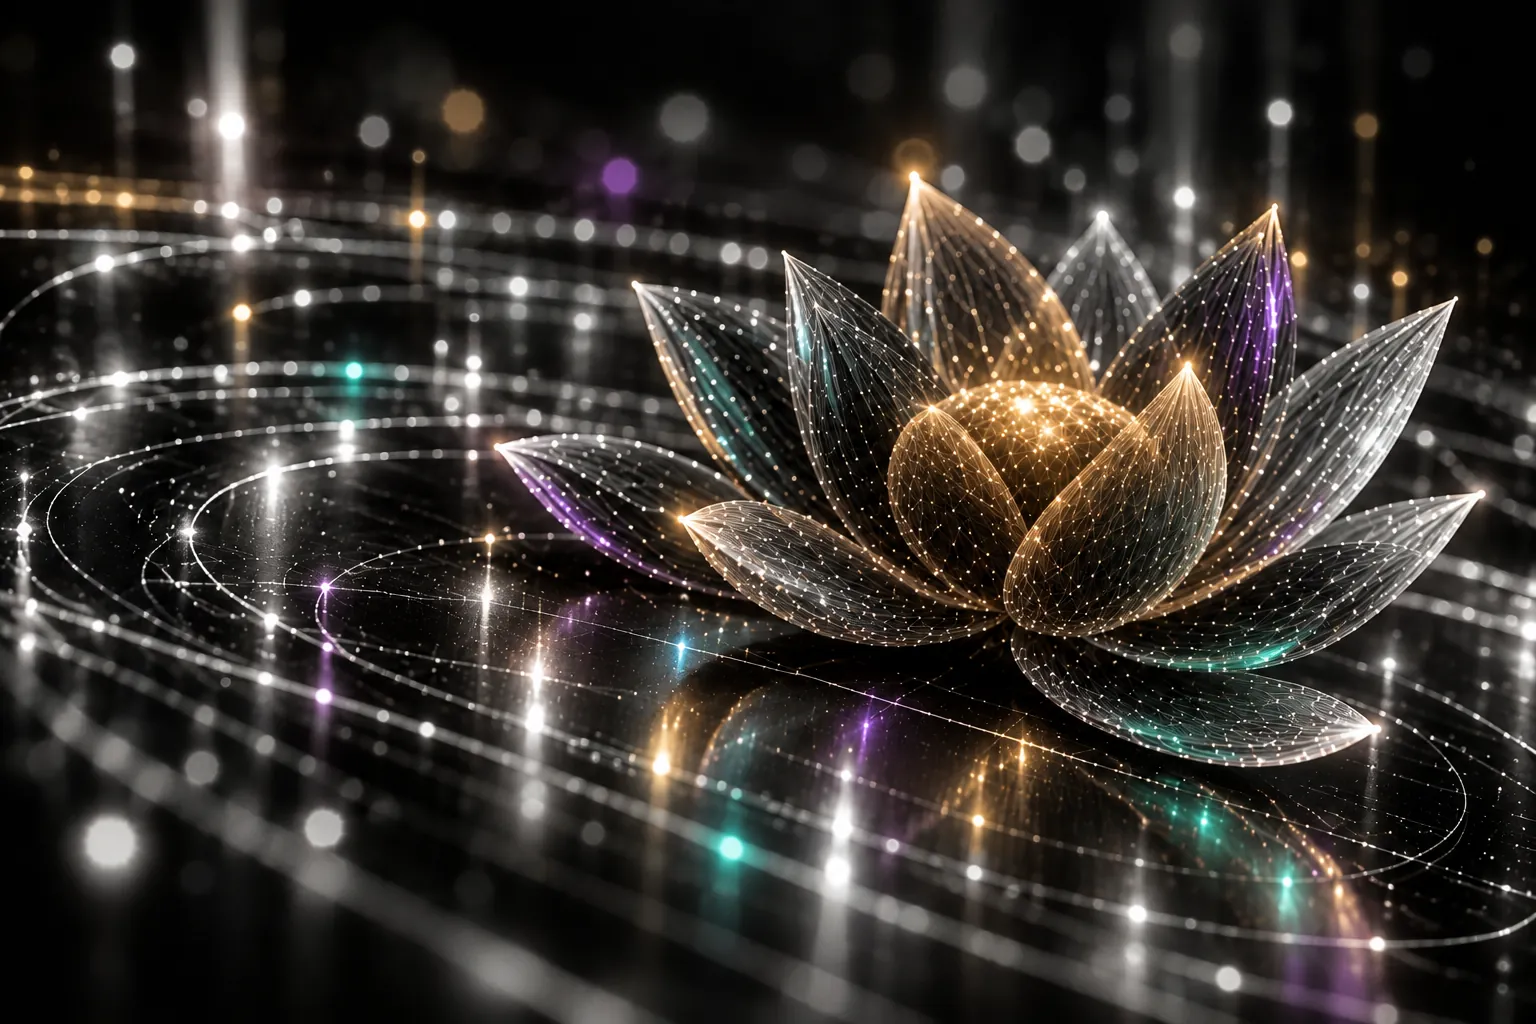
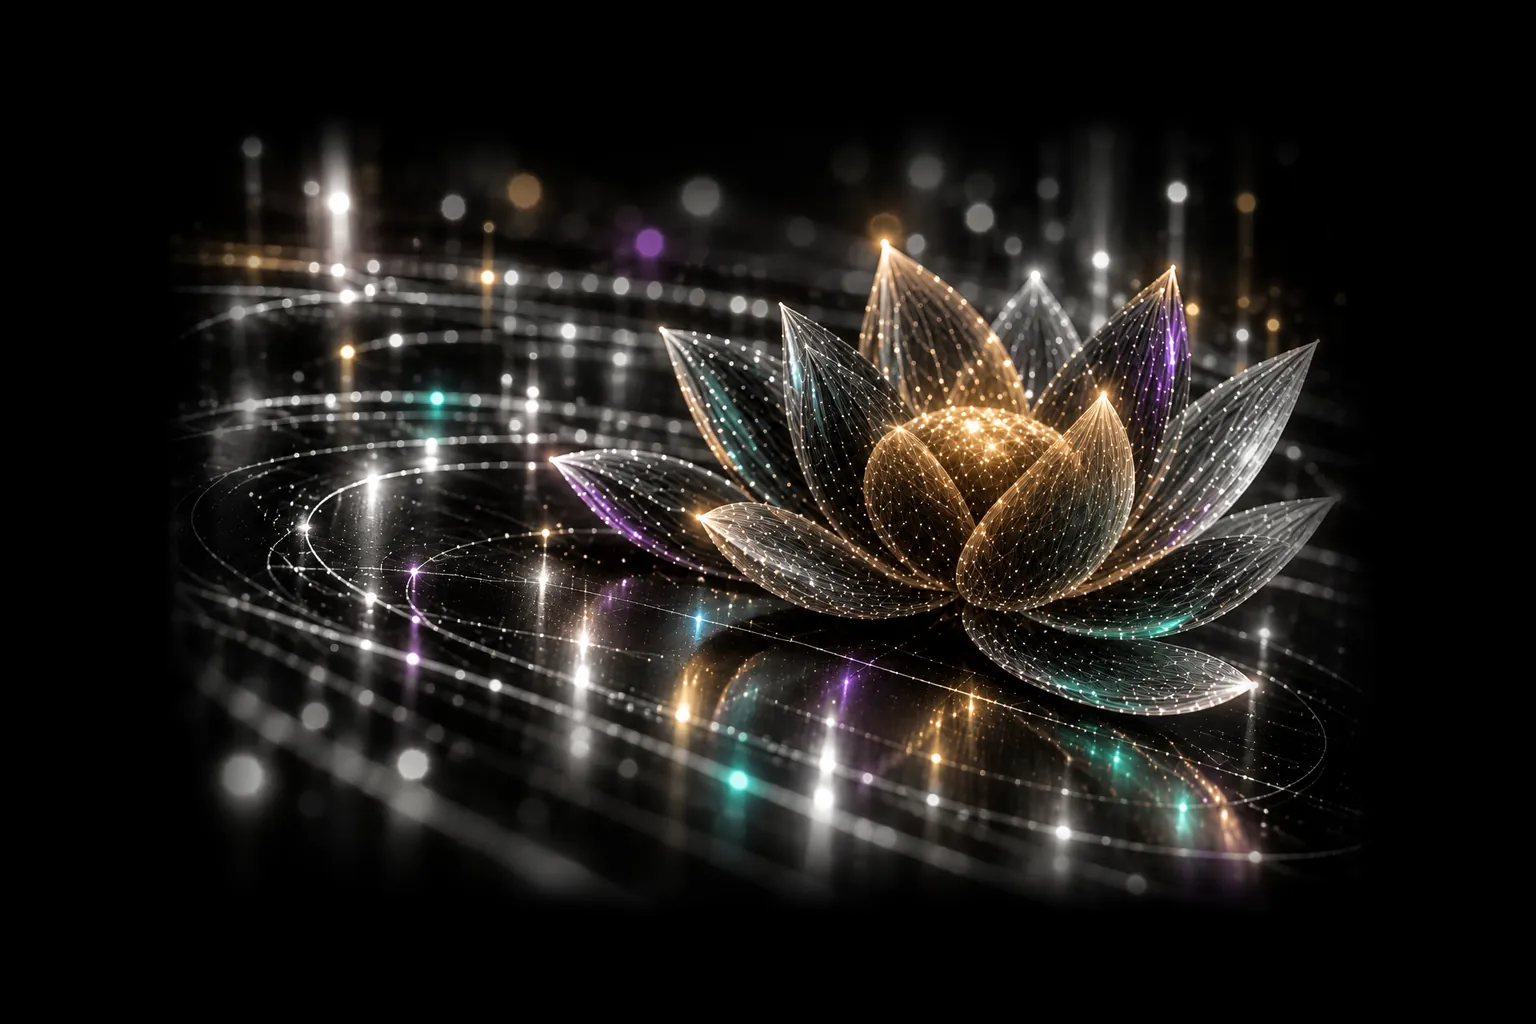
Zoom the section backgrounds out 20% (render at 80% on black, feathered edges)

diff --git a/src/app/globals.css b/src/app/globals.css
@@ -86,11 +86,11 @@ body {
   /* The original backdrop has no scrim, so it keeps its old 0.4 on phones. */
   .site-bg-layer--default.is-active { opacity: 0.67; }
   .site-bg-layer--default { background-position: 70% 100%; }
-  .site-bg-layer--home { background-position: 75% 60%; }
+  .site-bg-layer--home { background-position: 70% 58%; }
   .site-bg-layer--craft,
-  .site-bg-layer--work { background-position: 70% 60%; }
-  .site-bg-layer--blog { background-position: 20% 60%; }
-  .site-bg-layer--brand { background-position: 60% 60%; }
+  .site-bg-layer--work { background-position: 66% 58%; }
+  .site-bg-layer--blog { background-position: 26% 58%; }
+  .site-bg-layer--brand { background-position: 58% 58%; }
 }
 .site-bg.is-hidden {
   opacity: 0;
